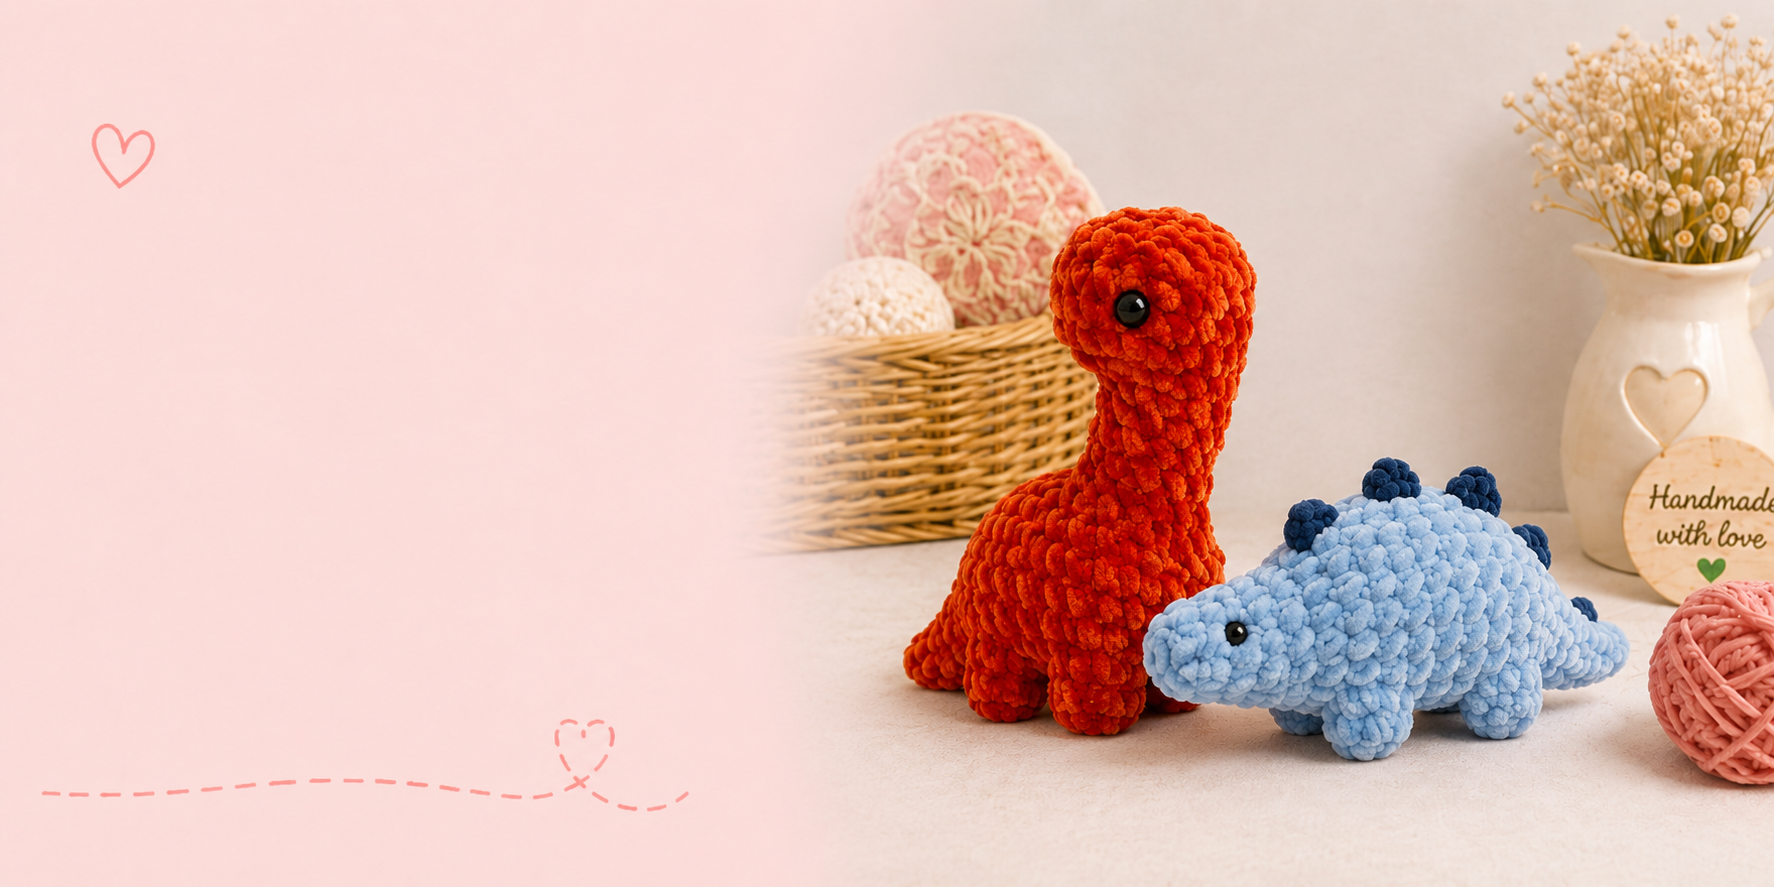
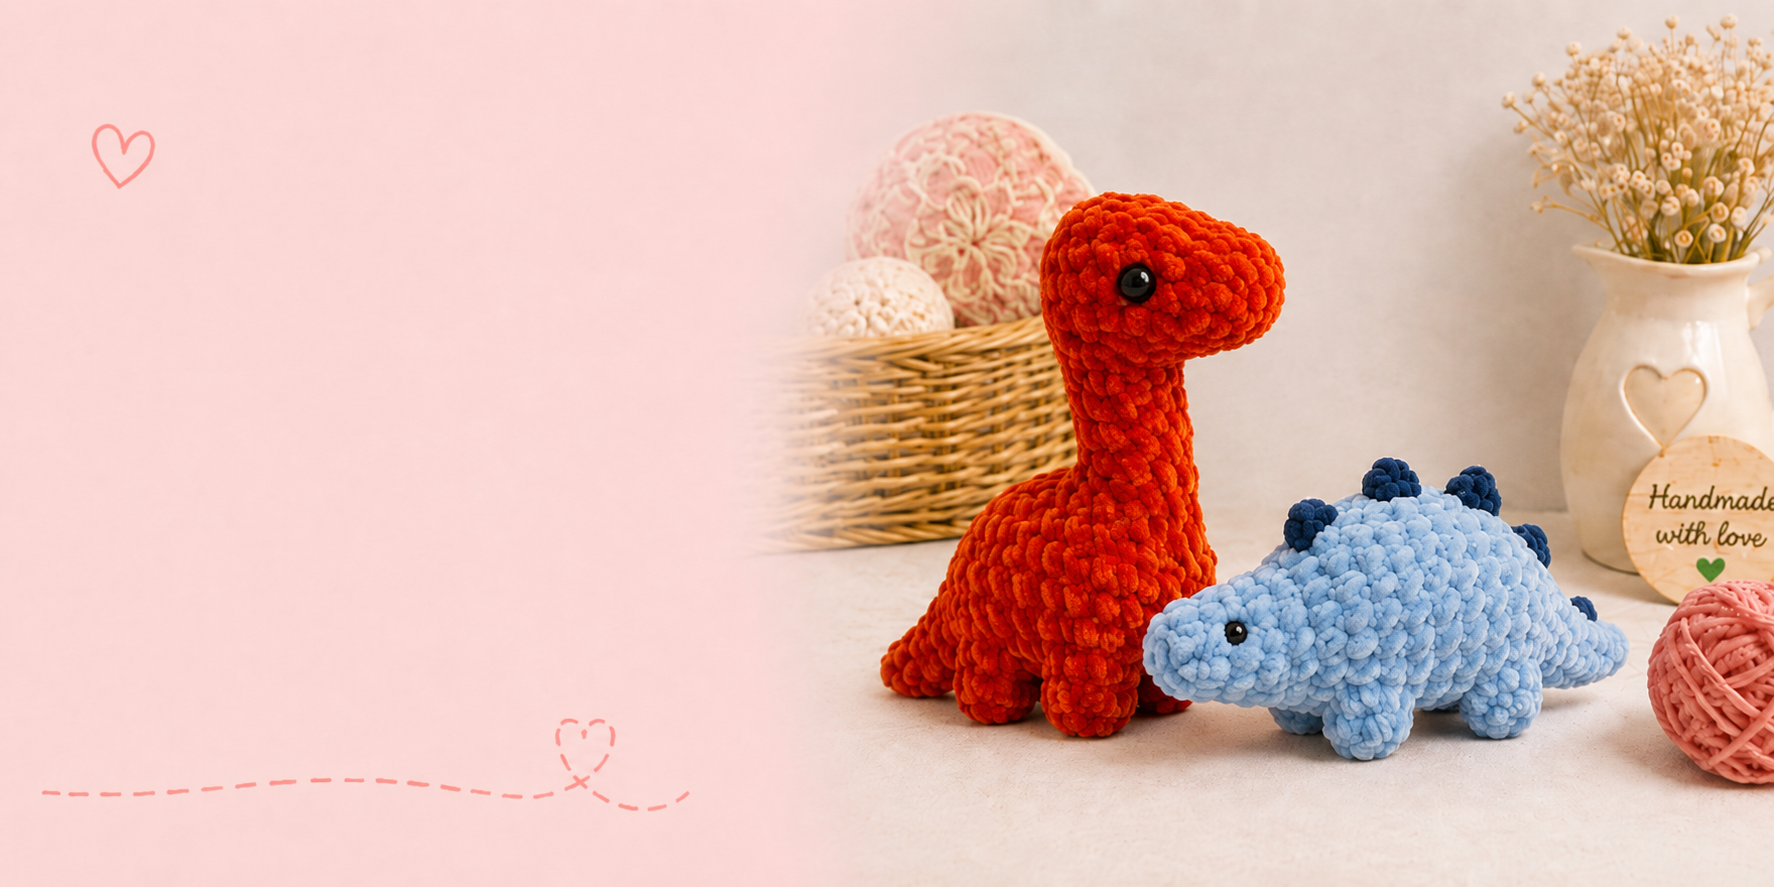
Fix hero carousel second slide with the correct dino photo.
Also point the shop subpage hero at the turtle asset so it no longer reuses the outdated dino image.

diff --git a/frontend/src/App.jsx b/frontend/src/App.jsx
@@ -734,7 +734,7 @@ function App() {
             <div className="hero-media">
               <img
                 className="hero-photo"
-                src="/bcnimg/bcnhero/bcndinohero.png"
+                src="/bcnimg/bcnhero/bcnturtlehero.png"
                 alt=""
                 decoding="async"
               />